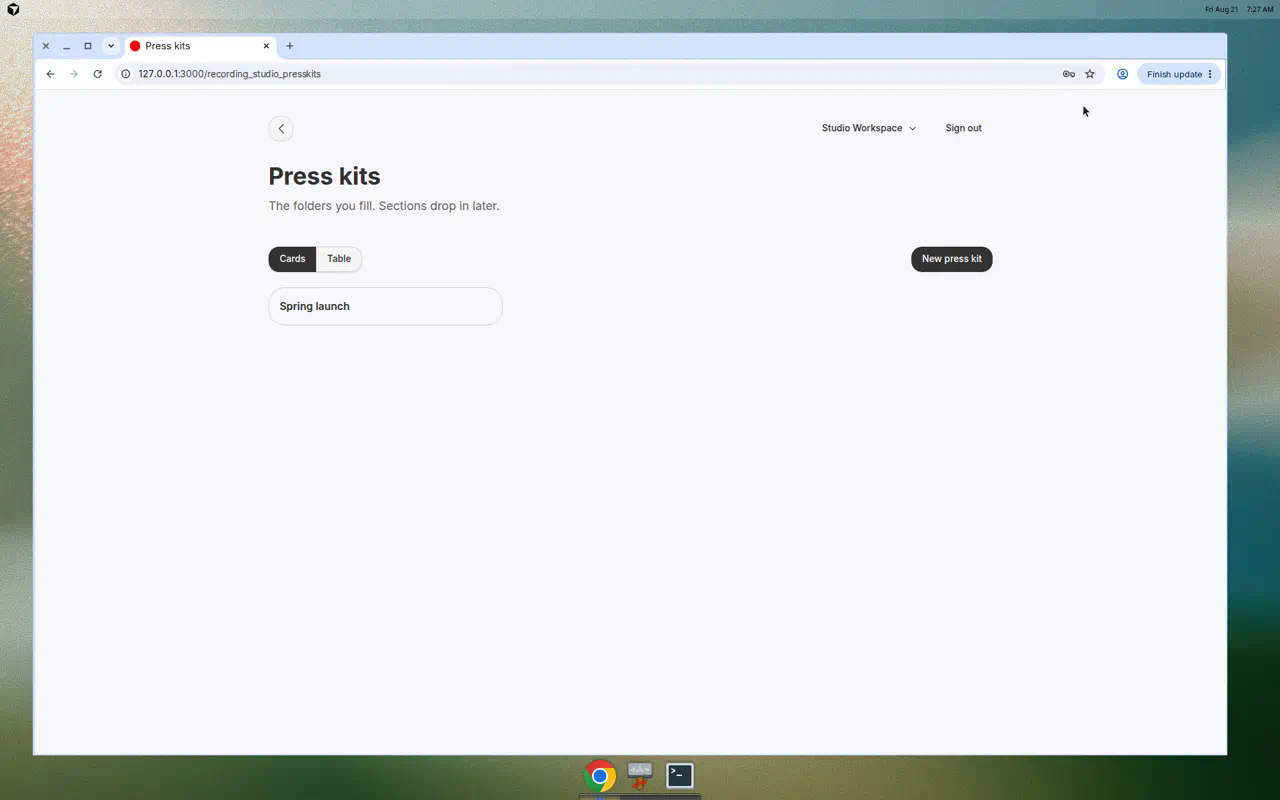
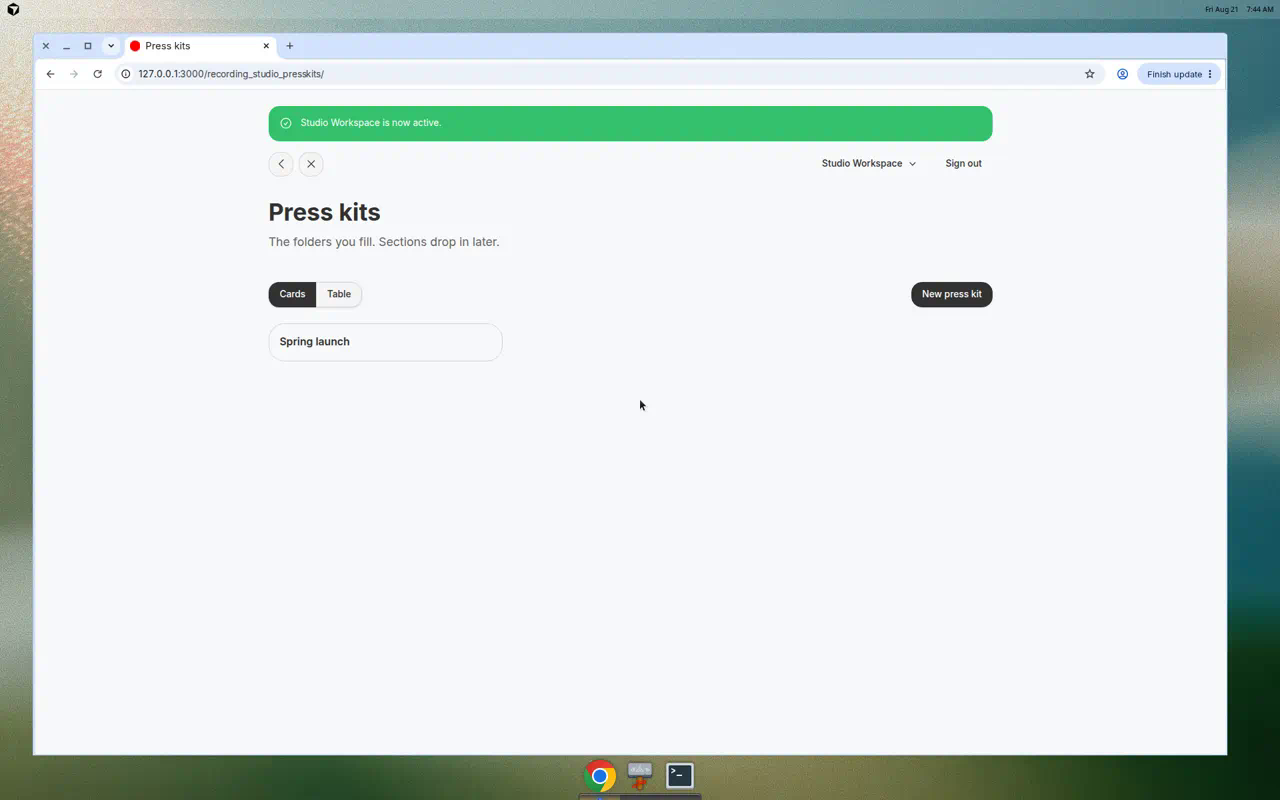
fix: pass Flatpack PageNav anchor_href so the close X renders
Dummy still uses UsesDefaultLayout. Core stores the close path in page_nav_anchor_url; the host layout now hands Flatpack 0.1.133 anchor_href. Recapture index cards with the X next to back.

Changed region(s): [[0.1875, 0.125, 0.7812, 0.4375], [0.6875, 0.2812, 0.7812, 0.4062]]

diff --git a/test/recording_studio_presskits_test.rb b/test/recording_studio_presskits_test.rb
@@ -96,6 +96,8 @@ class RecordingStudioPresskitsTest < Minitest::Test
     assert_includes controller_source, '"recording_studio/default_layout"'
     assert_includes controller_source, 'devise_controller? ? "application"'
     assert_includes default_layout, '<html data-theme="rounded">'
+    assert_includes default_layout, "page_nav_options[:anchor_href]"
+    refute_includes default_layout, "page_nav_options[:anchor_url]"
     refute_includes controller_source, "flat_pack_sidebar"
     refute File.exist?(File.expand_path("dummy/app/views/layouts/flat_pack_sidebar.html.erb", __dir__))
     refute File.exist?(File.expand_path("dummy/app/views/layouts/flat_pack/_sidebar.html.erb", __dir__))

diff --git a/test/dummy/test/integration/recording_studio_presskits_test.rb b/test/dummy/test/integration/recording_studio_presskits_test.rb
@@ -169,6 +169,8 @@ class RecordingStudioPresskitsTest < ActiveSupport::TestCase
     controller = File.read(Rails.root.join("app/controllers/application_controller.rb"))
 
     assert_includes layout, '<html data-theme="rounded">'
+    assert_includes layout, "page_nav_options[:anchor_href]"
+    refute_includes layout, "page_nav_options[:anchor_url]"
     assert_includes controller, "include RecordingStudio::UsesDefaultLayout"
     assert_includes controller, '"recording_studio/default_layout"'
     refute File.exist?(Rails.root.join("app/views/home/index.html.erb"))

diff --git a/test/dummy/test/integration/press_kit_ui_test.rb b/test/dummy/test/integration/press_kit_ui_test.rb
@@ -49,6 +49,9 @@ class PressKitUiTest < ActionDispatch::IntegrationTest
     assert_includes response.body, "Spring launch"
     assert_includes response.body, "Cards"
     assert_includes response.body, "Table"
+    assert_includes response.body, "Sign out"
+    assert_select "[data-flat-pack--icon-name-value='x-mark']", count: 1
+    assert_select "a[href='/recording_studio_presskits/press_kits'][aria-label='Close']", count: 1
 
     get recording_studio_presskits.press_kits_path(view: "table")
     assert_response :success

diff --git a/test/dummy/README.md b/test/dummy/README.md
@@ -45,6 +45,6 @@ Then open the app and sign in with:
 
 Use this app to verify press kits boot in a host. If a layout, route, asset source, or Recording Studio initializer change breaks here, the gem likely needs adjustment before reuse.
 
-Authenticated pages keep `RecordingStudio::UsesDefaultLayout`. Dummy overrides `layouts/recording_studio/default_layout` so `<html data-theme="rounded">` wraps those screens (index, kit show, Admin). That is Flatpack's built-in rounded theme from `flat_pack/variables`. Devise sign-in keeps `layouts/application`, which already has the same html attribute.
+Authenticated pages keep `RecordingStudio::UsesDefaultLayout`. Dummy overrides `layouts/recording_studio/default_layout` so `<html data-theme="rounded">` wraps those screens (index, kit show, Admin). That is Flatpack's built-in rounded theme from `flat_pack/variables`. The same override passes Flatpack 0.1.133 `anchor_href` so the close X renders next to back. Devise sign-in keeps `layouts/application`, which already has the same html attribute.
 
 Dummy Tailwind must scan FlatPack components, Recording Studio's default layout, Admin, and this gem, or the host looks unstyled. `bin/rails tailwindcss:build` writes gem `@source` paths first. After changing views or gems, run that build (or `bin/dev`) so CSS is not an empty shell.

diff --git a/README.md b/README.md
@@ -207,7 +207,7 @@ Dummy kit pins:
 | Trashable | `0.4.0` |
 | Duplicatable | `0.4.0` |
 
-Authenticated dummy screens keep `RecordingStudio::UsesDefaultLayout`. Core 4.2 puts `data-theme` on `<body>`; dummy overrides `layouts/recording_studio/default_layout` so `<html data-theme="rounded">` wraps index, kit show, and Admin. That is Flatpack's built-in rounded theme from `flat_pack/variables` — not a custom theme. After sign-in, `/` redirects to the press kit index. Dummy Tailwind scans FlatPack, Recording Studio, Admin, and this gem so that layout is not an unstyled box.
+Authenticated dummy screens keep `RecordingStudio::UsesDefaultLayout`. Core 4.2 puts `data-theme` on `<body>`; dummy overrides `layouts/recording_studio/default_layout` so `<html data-theme="rounded">` wraps index, kit show, and Admin. That is Flatpack's built-in rounded theme from `flat_pack/variables` — not a custom theme. The same override passes Flatpack 0.1.133 `anchor_href` (core still stores the close path in `page_nav_anchor_url`) so the close X shows next to back. After sign-in, `/` redirects to the press kit index. Dummy Tailwind scans FlatPack, Recording Studio, Admin, and this gem so that layout is not an unstyled box.
 
 Cards, table, kit show, and the Admin list: `docs/dummy-screenshots/`.
 

diff --git a/CHANGELOG.md b/CHANGELOG.md
@@ -29,6 +29,7 @@ Authenticated press kit screens and a staff list of live kits. This gem is still
 - Dummy `/` redirects to the mounted press kit index
 - Dummy app name is "Press kits"
 - Dummy overrides Recording Studio's default layout so `<html data-theme="rounded">` wraps index, kit show, and Admin. That is Flatpack's built-in rounded theme from `flat_pack/variables`. Authenticated screens still use `UsesDefaultLayout`.
+- Dummy PageNav maps core's `page_nav_anchor_url` slot to Flatpack 0.1.133 `anchor_href` so the close X renders next to back.
 
 ### Removed
 - Dummy "Dummy host" landing page and workspace outline tree
